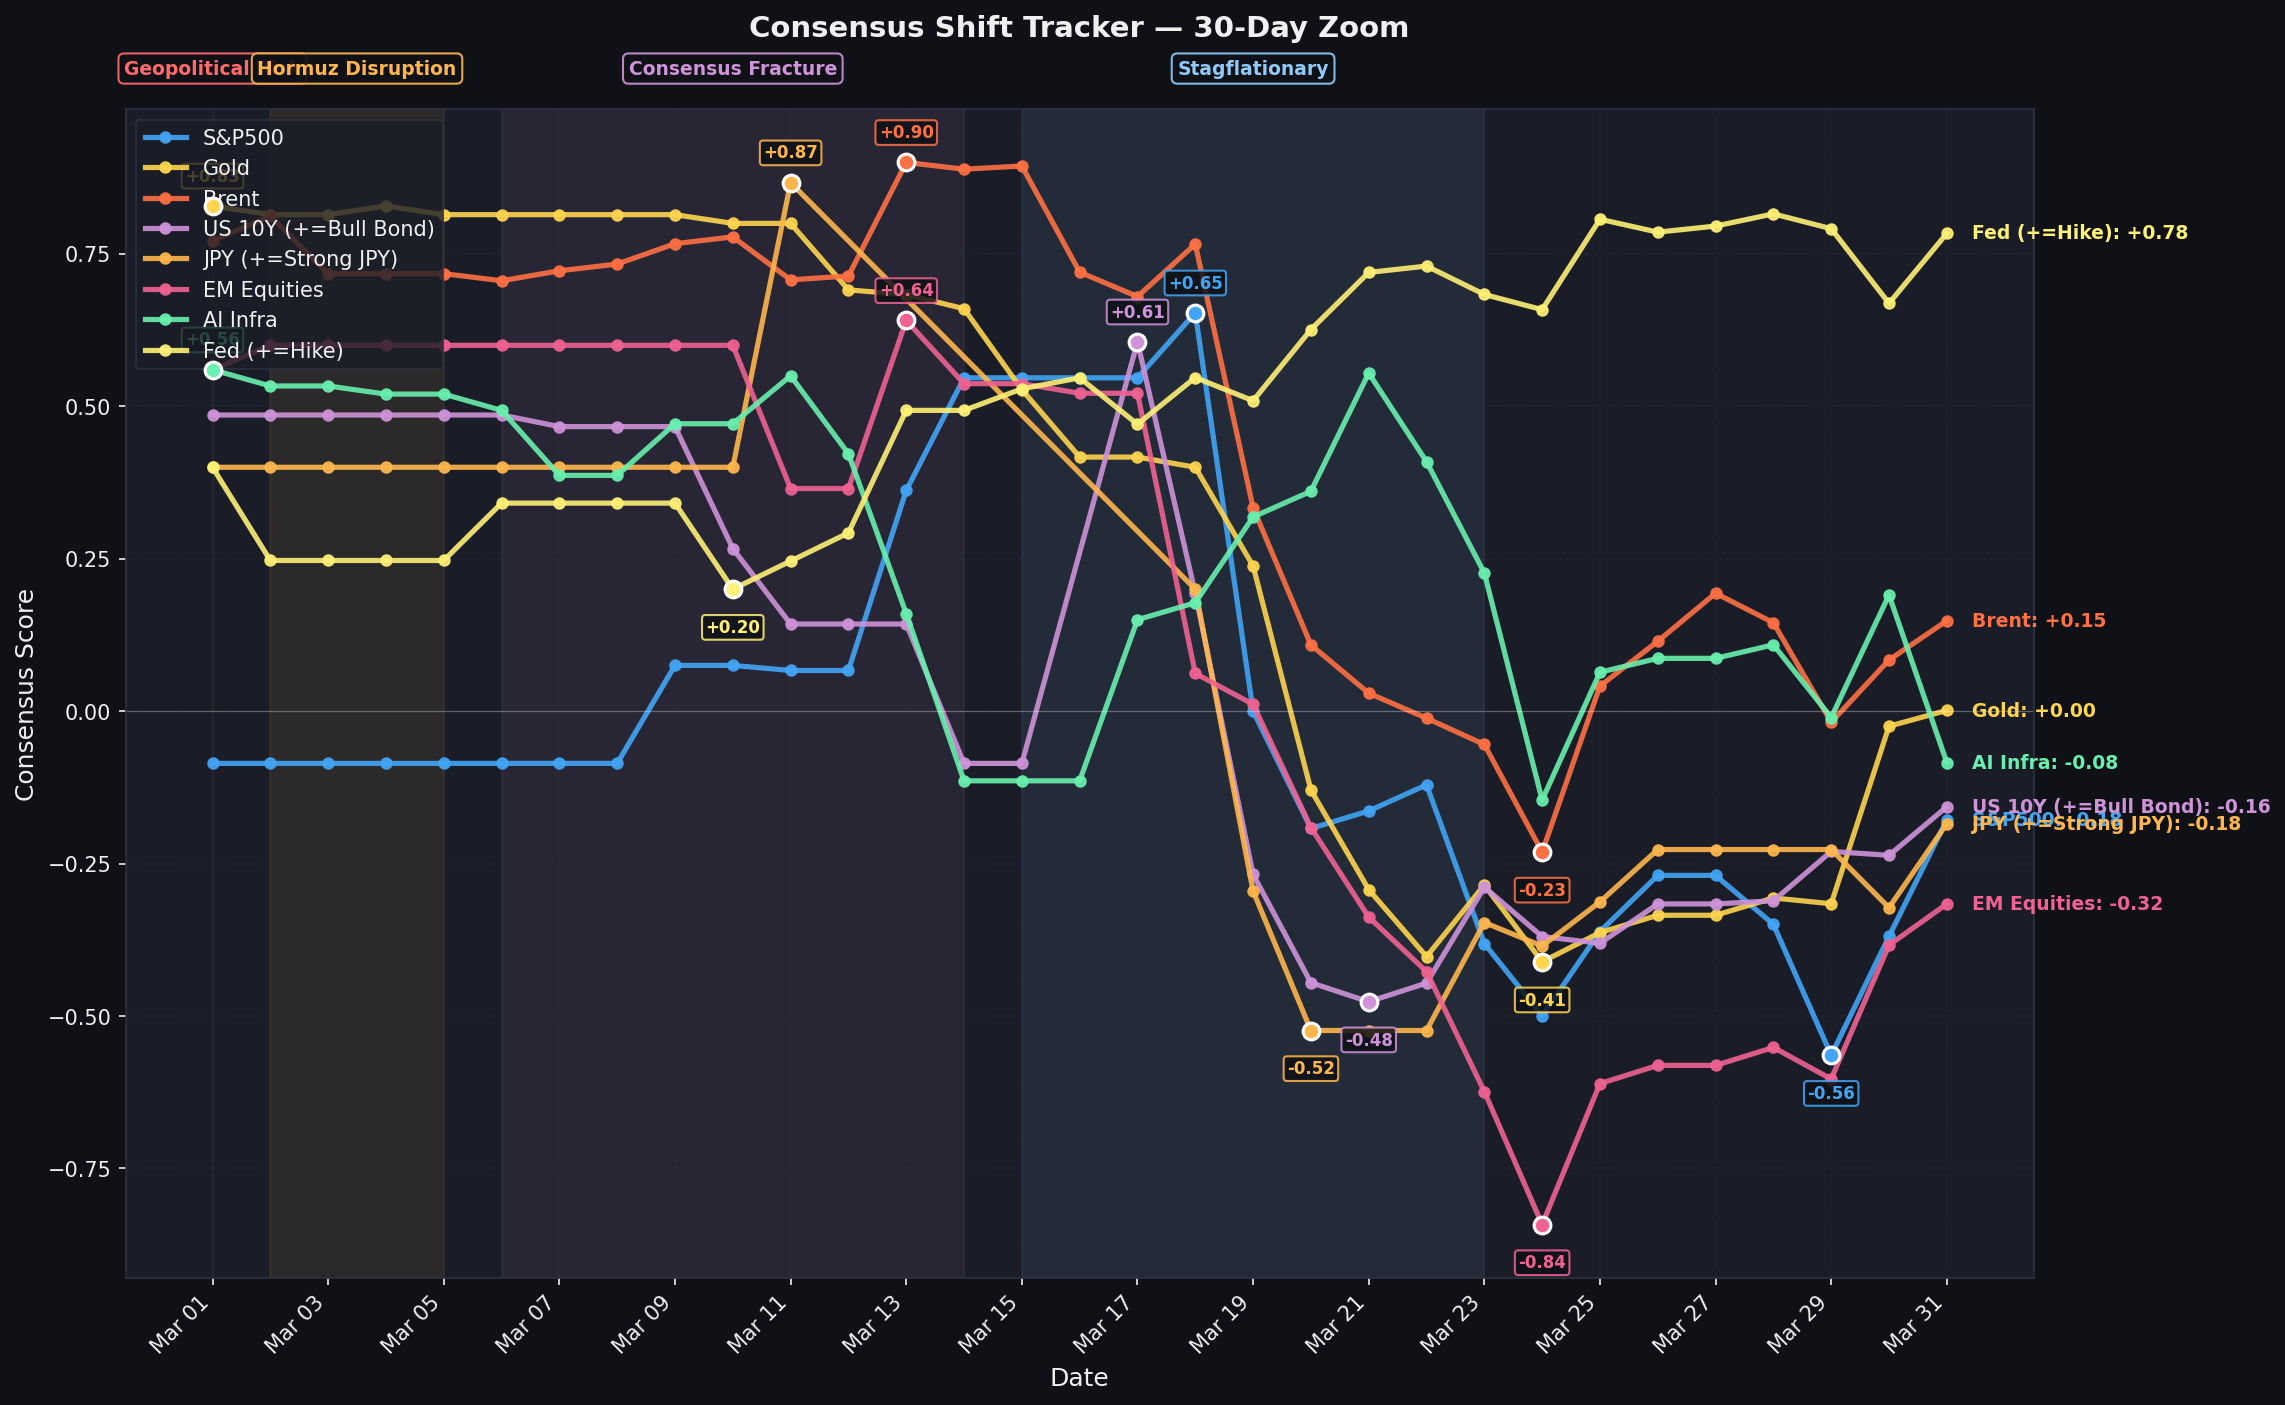
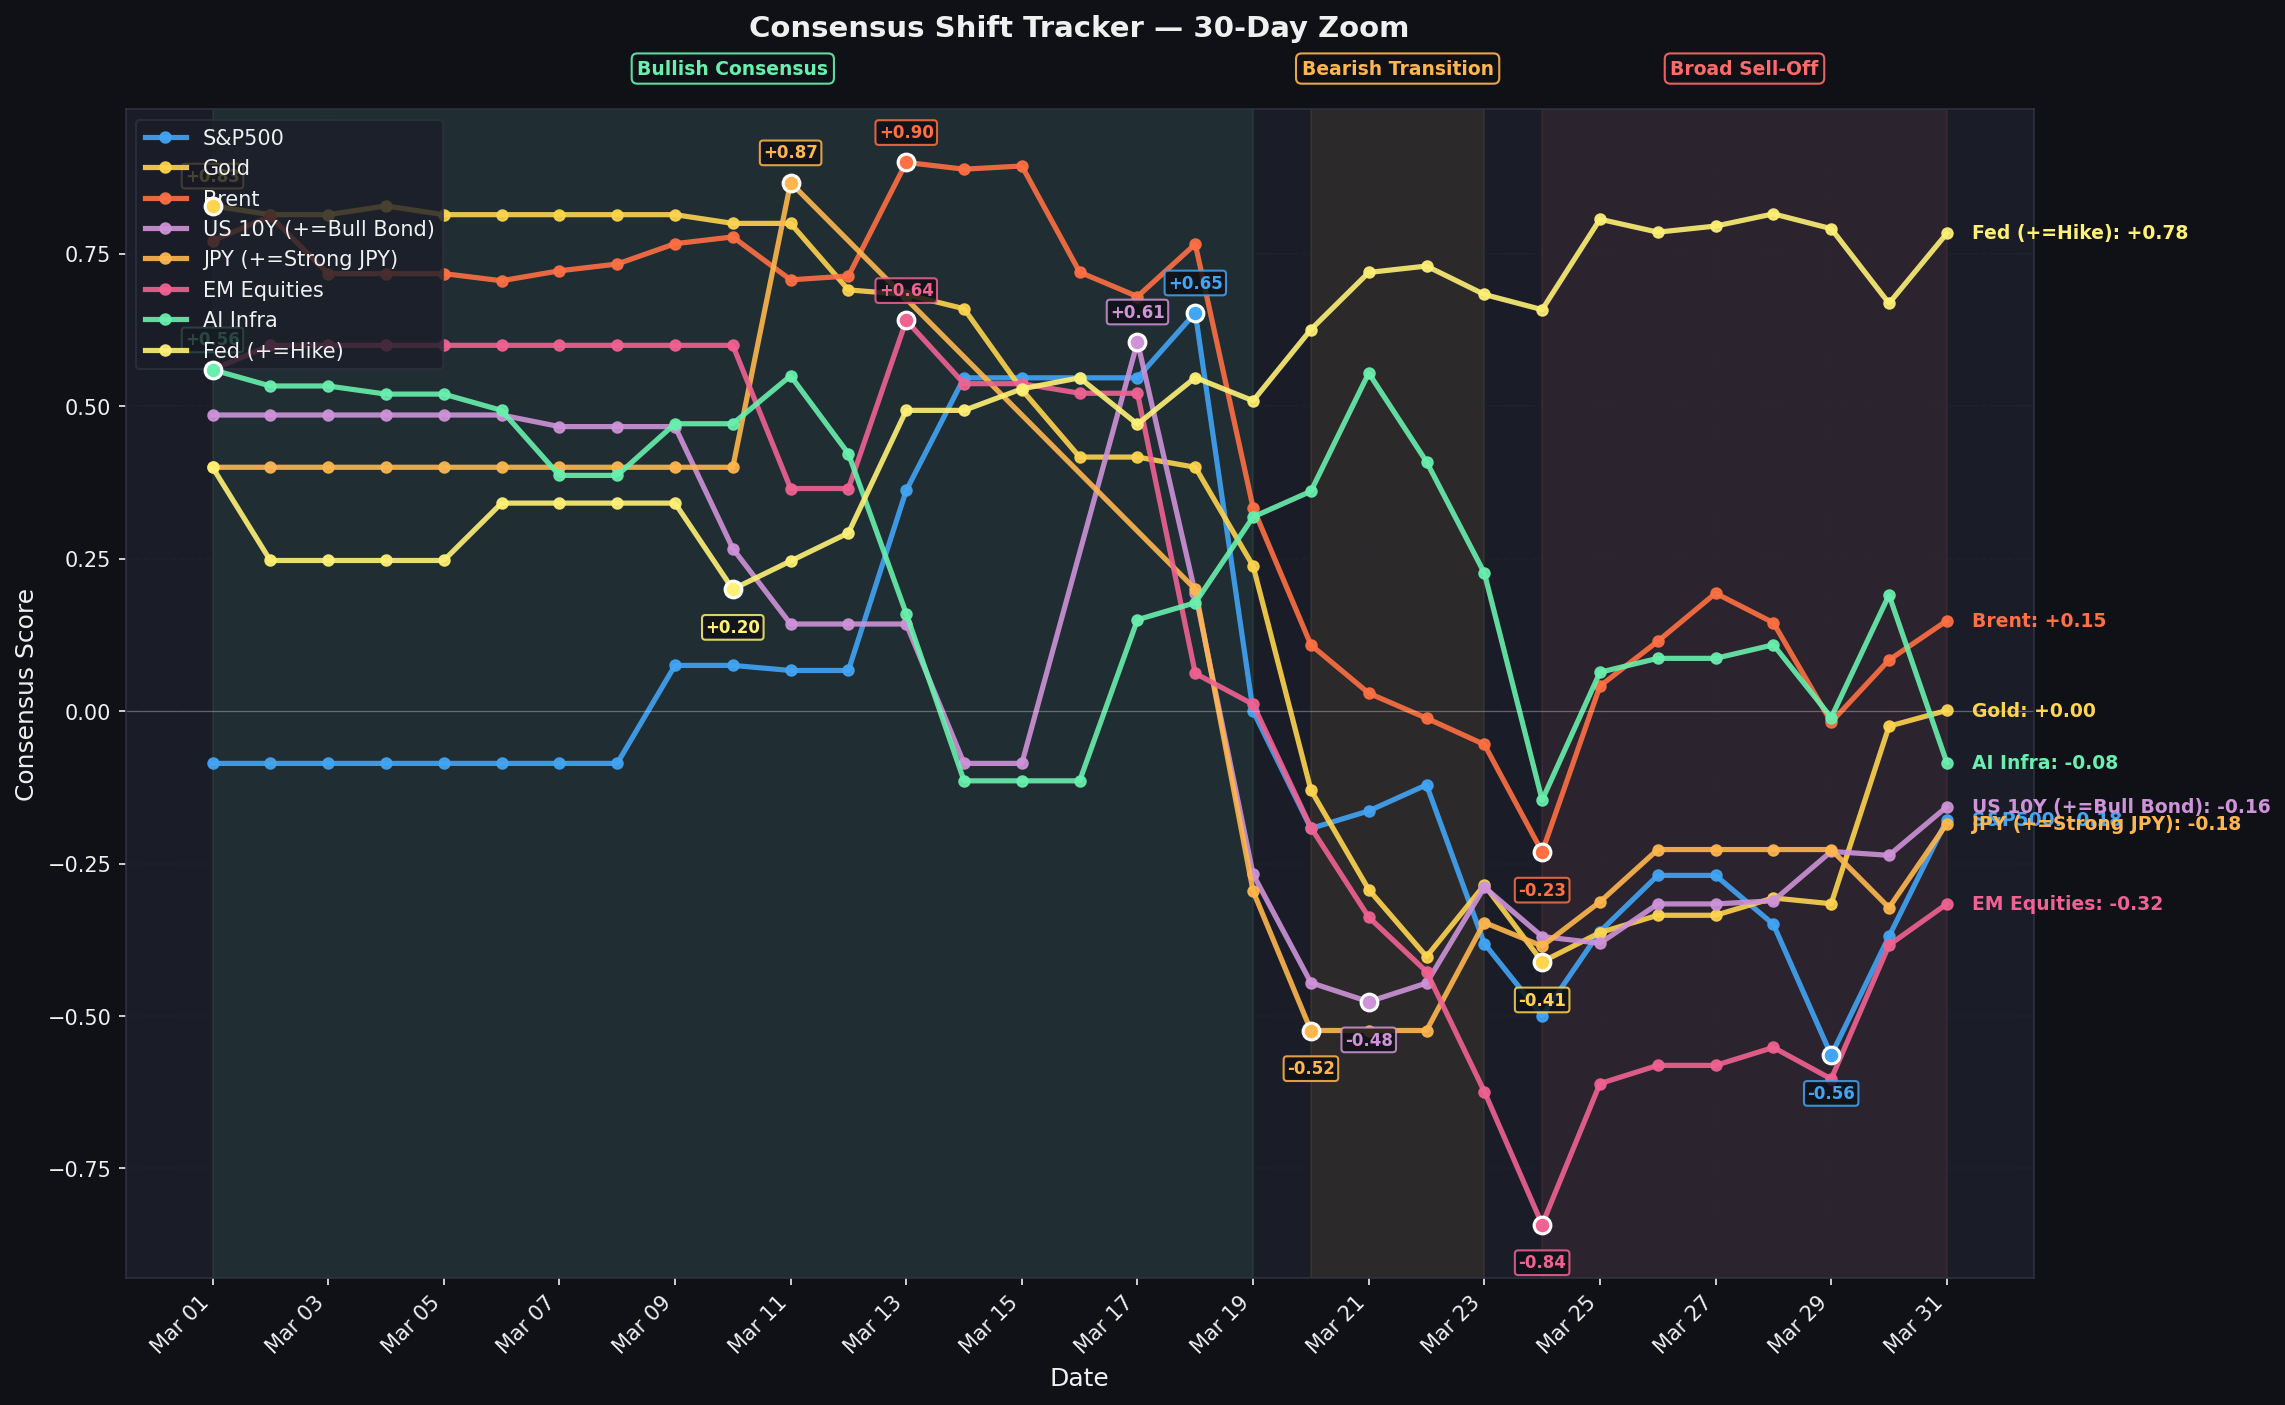
Daily update — 2026-04-01

diff --git a/index.html b/index.html
@@ -553,19 +553,19 @@
     <div class="chart-section">
       <p class="chart-title">Consensus Shift Tracker — 30-Day Zoom</p>
       <p class="chart-subtitle">Mar 1 – Mar 31, 2026 · 8 Key Assets</p>
-      <img class="chart-img" src="img/chart_30d_zoom.png?v=1775013377" alt="30-Day Zoom chart" />
+      <img class="chart-img" src="img/chart_30d_zoom.png?v=1775014340" alt="30-Day Zoom chart" />
       <p class="chart-caption">Tracks the consensus score trajectory for 8 key assets over the final 30 trading days. 2 regime phases detected: Bullish Consensus (2026-02-20 – 2026-03-19), Bearish Transition (2026-03-20 – 2026-03-31). Credit IG ended at -0.55, the sharpest decline. BoJ (+=Hike) at +0.79 is the strongest positive. Gold at +0.00 is closest to the inflection point.</p>
     </div>
     <div class="chart-section">
       <p class="chart-title">Bank Leadership by Macro Theme</p>
       <p class="chart-subtitle">★ = first to call/flip · ✓ = followed later · dates = first publication</p>
-      <img class="chart-img" src="img/chart_bank_leadership.png?v=1775013377" alt="Bank Leadership chart" />
+      <img class="chart-img" src="img/chart_bank_leadership.png?v=1775014340" alt="Bank Leadership chart" />
       <p class="chart-caption">Maps which banks led versus followed across 38 macro themes. Gold cells indicate leading calls (★); blue cells indicate supporting calls (✓); dark cells indicate absence. JPM, GS, BofA show the densest leading coverage. Late arrivals — Barclays, HSBC, MS, Nomura — are concentrated in the bottom rows.</p>
     </div>
     <div class="chart-section">
       <p class="chart-title">Bank × Asset Conviction Map</p>
       <p class="chart-subtitle">Green = Bull · Red = Bear · Gold border = contrarian · ▲Bull ▼Bear · No data = dark</p>
-      <img class="chart-img" src="img/chart_bank_asset_heatmap.png?v=1775013377" alt="Bank Asset Conviction Heatmap" />
+      <img class="chart-img" src="img/chart_bank_asset_heatmap.png?v=1775014340" alt="Bank Asset Conviction Heatmap" />
       <p class="chart-caption">Shows each bank's current directional conviction score (−1.0 to +1.0) for every tracked asset. Gold borders highlight contrarian positions — banks holding the minority view against consensus. The bottom CONSENSUS row summarises the aggregate score per asset. S&P500: -0.18. Nasdaq: -0.43. EM Equities: -0.32. Fed (+=Hike): +0.78. USD: -0.01. BoJ (+=Hike) at +0.79 is the strongest positive. Credit IG is unanimous bearish.</p>
     </div>
   </div>
